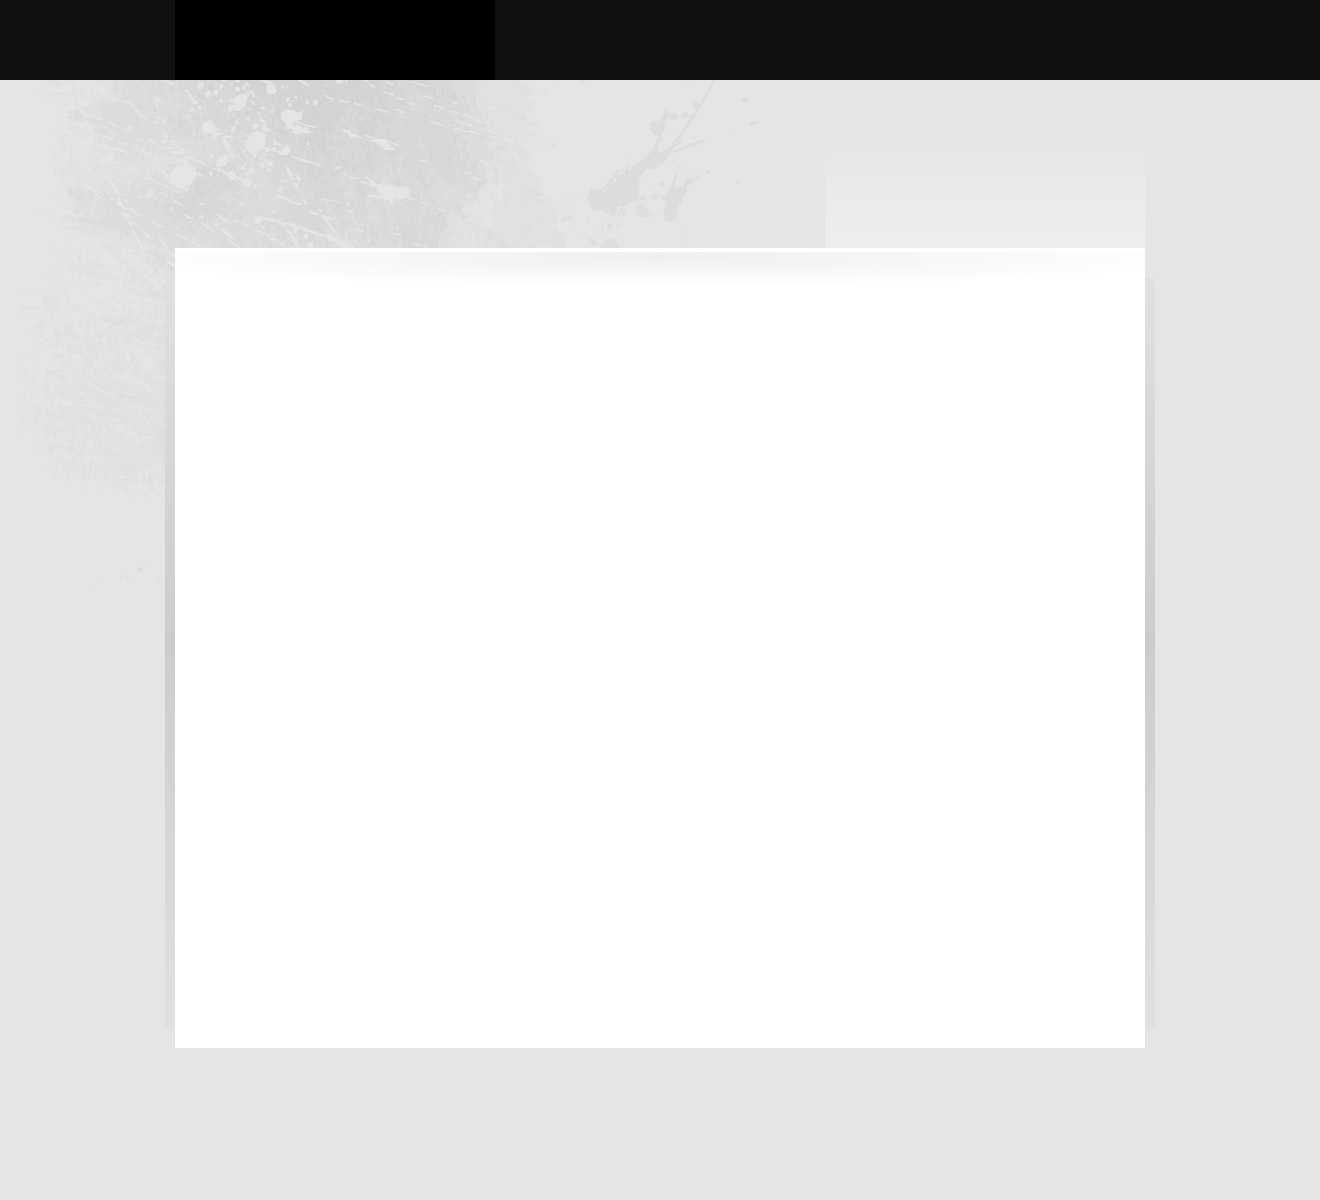
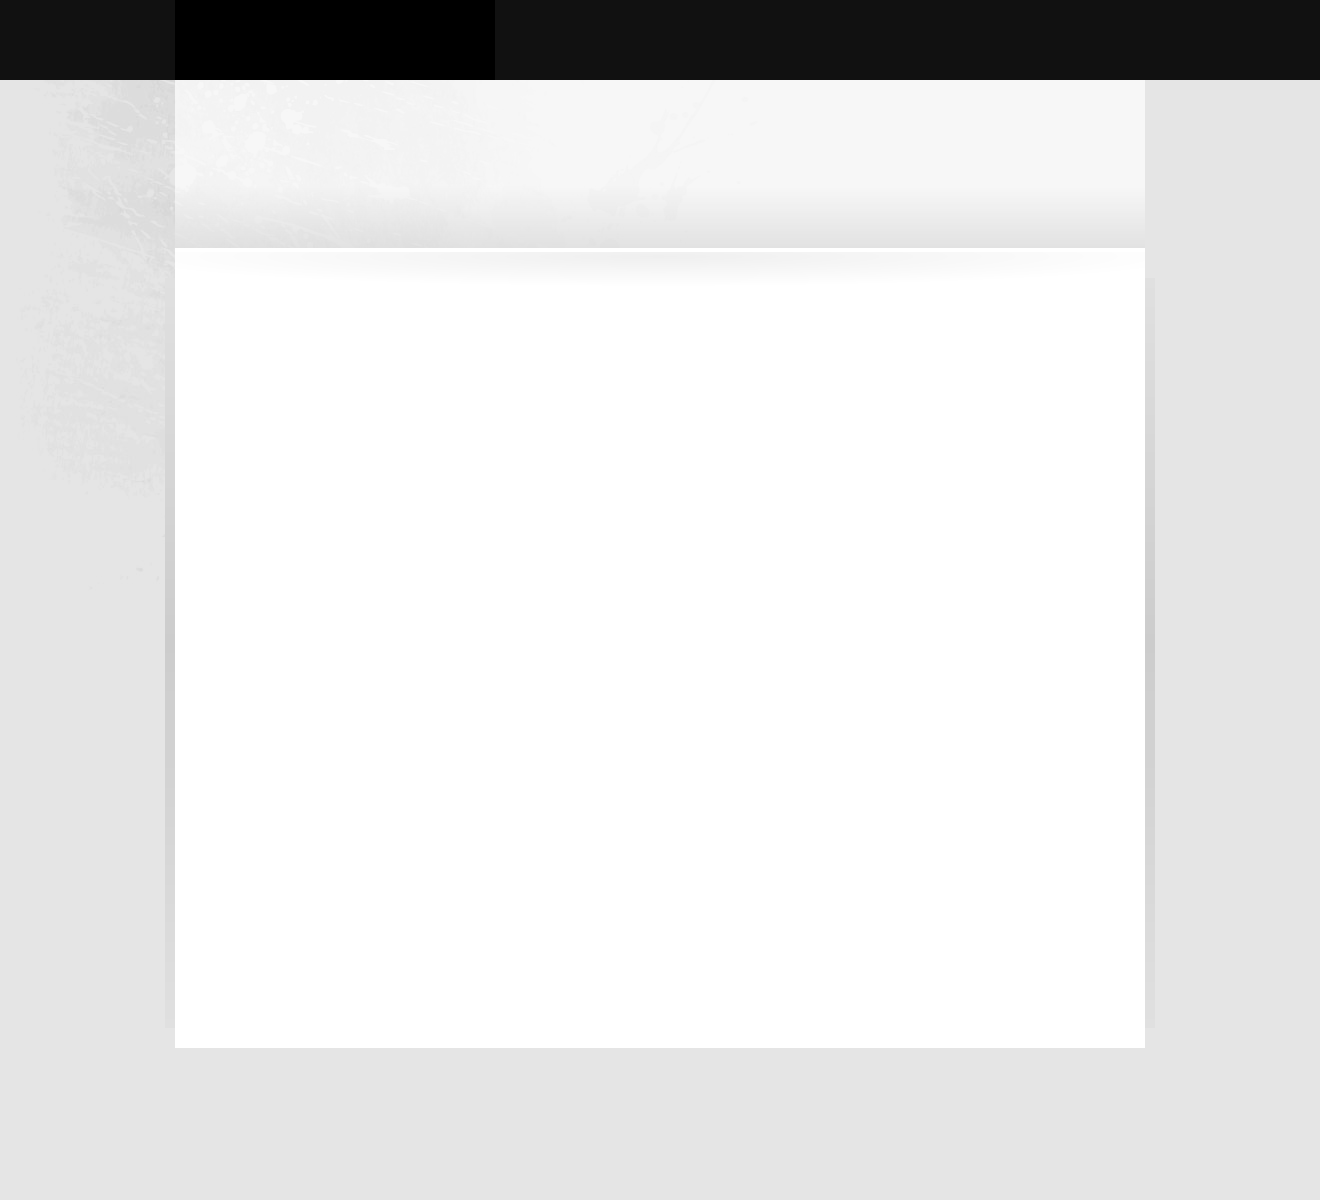
Working on profile style

Changed region(s): [[0.1242, 0.0617, 0.3727, 0.185], [0.4659, 0.0925, 0.528, 0.1542]]

diff --git a/public/stylesheets/sass/user.sass b/public/stylesheets/sass/user.sass
@@ -22,7 +22,7 @@
           :padding-left 68px
           
       #summary
-        :padding 5px 20px
+        :padding 10px 20px 5px 15px
         :float left
         #lock
           :float left
@@ -39,8 +39,8 @@
           :padding-left 10px
         .name
           :font-weight bold
-          :padding-bottom 5px
-          :font-size 1.8em
+          :padding-bottom 4px
+          :font-size 1.6em
         .summary-positions
           :padding-left 1px
           :font-size 0.9em
@@ -56,51 +56,51 @@
         a
       
       #photo-section
-        :margin-right 10px
         :display inline
         :float left
+        :margin-left 20px
         #photo
           :padding 0px
-          :border 3px solid #FFF
+          :border 4px solid #FFF
       
         
-    #metrics
-      :margin 0
-      :padding 10px 15px 6px
+#metrics
+  :margin 0
+  :padding 5px 20px 10px 0px
+  :float right
+  :display inline
+  :text-transform uppercase
+  :font-weight bold
+
+  span.views, span.following, span.followers
+    :float right
+    :margin 5px 0px 5px 20px
+    :font-size 0.7em
+    :color #000
+    span
+      :margin-left 5px
+  span.views
+    span.profile_views
+      :font-size 2.2em
       :float right
-      :text-transform uppercase
-      :font-weight bold
-    
-      span.views, span.following, span.followers
-        :float right
-        :margin 5px 0px 5px 20px
-        :font-size 0.8em
-        :color #000
-        span
-          :margin-left 5px
-      span.views
-        span.profile_views
-          :font-size 2.5em
-          :float right
-          :color #000
-      span.following
-        span.number_of_people_user_is_following
-          :font-size 2.5em
-          :float right
-          :color #000
-      span.followers
-        span.number_of_followers
-          :font-size 2.5em
-          :float right
-          :color #000
-      span.sparkline
-        :float right
-        :padding-top 18px
+      :color #000
+  span.following
+    span.number_of_people_user_is_following
+      :font-size 2.2em
+      :float right
+      :color #000
+  span.followers
+    span.number_of_followers
+      :font-size 2.2em
+      :float right
+      :color #000
+  span.sparkline
+    :float right
+    :padding-top 18px
 
 
 #user-profile
   #experience, #education, #interests, #my-organizations, #newsfeed
-    :margin 20px 50px 20px 110px
 
     .industry
       :font-size 0.9em

diff --git a/public/stylesheets/sass/navigation.sass b/public/stylesheets/sass/navigation.sass
@@ -188,9 +188,10 @@
       
 ul.subnavigation
   :display block
-  :clear both
+  :float left
   :list-style none
   :padding 0
+  :padding-top 20px
   :margin 0
   :height 25px
   li
@@ -206,16 +207,13 @@ ul.subnavigation
       :text-align center
       :padding 8px 30px 7px
       :background-color #EFEFEF
-      :border-top 1px solid #EFEFEF
-      :border-left 1px solid #DDD
-      :border-bottom 1px solid #DDD
-      :border-right 1px solid #DDD
+      :border 1px solid #DDD
       &:hover
         :background-color #EFEFEF
   li.selected
     a, a:hover, a:visited
       :border none
-      :border-top 1px solid #FFF
+      :border-top 1px solid #DDD
       :border-bottom 1px solid #FFF
       :background-color #FFFFFF
         

diff --git a/public/stylesheets/sass/profile_common.sass b/public/stylesheets/sass/profile_common.sass
@@ -2,14 +2,16 @@
   #user-profile, #organization-profile
     #profile-summary
       p.summary
-        :margin 0px
-        :padding 40px 25px
-        :font-size 1.2em
+        //:margin 20px 40px 0px 110px
+        //:padding 30px 25px 30px 110px
+        :margin-left -20px
+        :padding 10px
+        :font-size 1.1em
         :font-family Georgia, serif
         :font-style italic
         :background-color #EFEFEF
         :line-height 1.4em
-        :text-align center
+        :text-align left
         :color #000
         .note
           :color #666

diff --git a/public/stylesheets/sass/application.sass b/public/stylesheets/sass/application.sass
@@ -23,7 +23,7 @@ br
     :width 100%
     :margin 0 auto
     :padding-top 25px
-    :min-height 110px
+    :min-height 90px
     #content-header-main
       :width 950px
       :margin 0 auto
@@ -53,7 +53,7 @@ br
         :border-bottom 3px solid #CCC
         :margin -10px -20px 30px 
       .main-section
-        :margin 80px 50px 20px 110px
+        :margin 20px 30px 20px 50px
       .main-section-stretched
         :margin 20px 20px 20px 20px
     #content-main-wide

diff --git a/public/stylesheets/sass/headers.sass b/public/stylesheets/sass/headers.sass
@@ -26,18 +26,18 @@ h3
   :font-weight bold
 
 h4
-  :font-size 1.0em
+  :font-size 0.9em
   :font-weight bold
   :text-transform uppercase
   
-  :color #FFF
+  :color #000
   
   :display inline-block
-  :margin 50px 0px 10px 0px
-  :padding 5px 5px 2px 5px
+  :margin 30px 0px 10px -50px
+  :padding 6px 6px 4px 50px
   
-  :background-color #A00
-//  :width 90%
+  :background-color #EFEFEF
+  :width 50%
 
 .opening
   h1

diff --git a/public/themes/default/stylesheets/default.css b/public/themes/default/stylesheets/default.css
@@ -1,5 +1,2 @@
 body {
   background: url("/themes/default/images/tj_bg_1.png") no-repeat scroll 50% 0 #e5e5e5; }
-
-#content-main-container .background {
-  background: white url("/themes/default/images/floral.jpg") no-repeat 400px 0px; }

diff --git a/public/themes/default/stylesheets/sass/default.sass b/public/themes/default/stylesheets/sass/default.sass
@@ -3,4 +3,4 @@ body
 
 #content-main-container
   .background
-    :background #FFF url("/themes/default/images/floral.jpg") no-repeat 400px 0px
+    //:background #FFF url("/themes/default/images/floral.jpg") no-repeat 400px 0px
